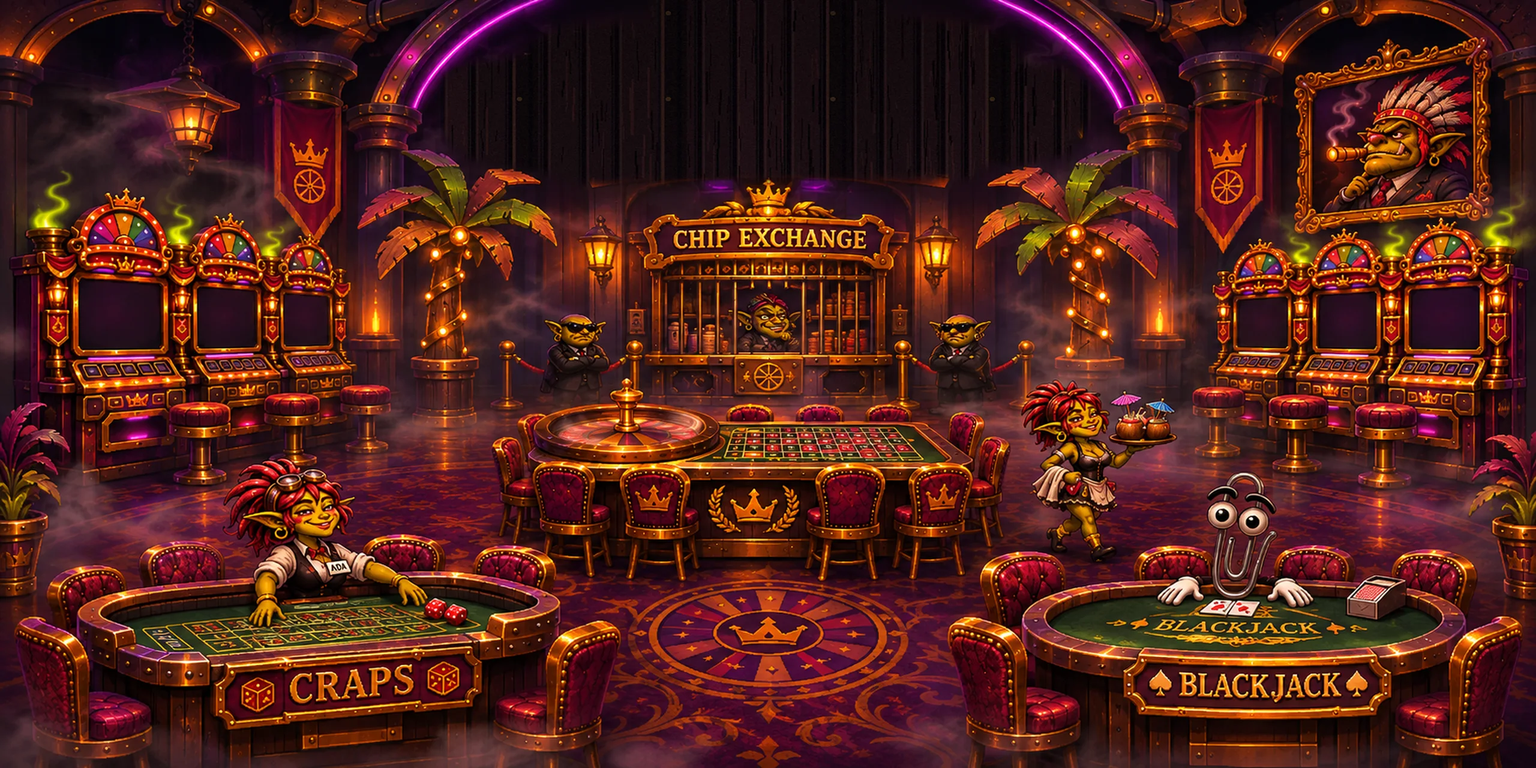
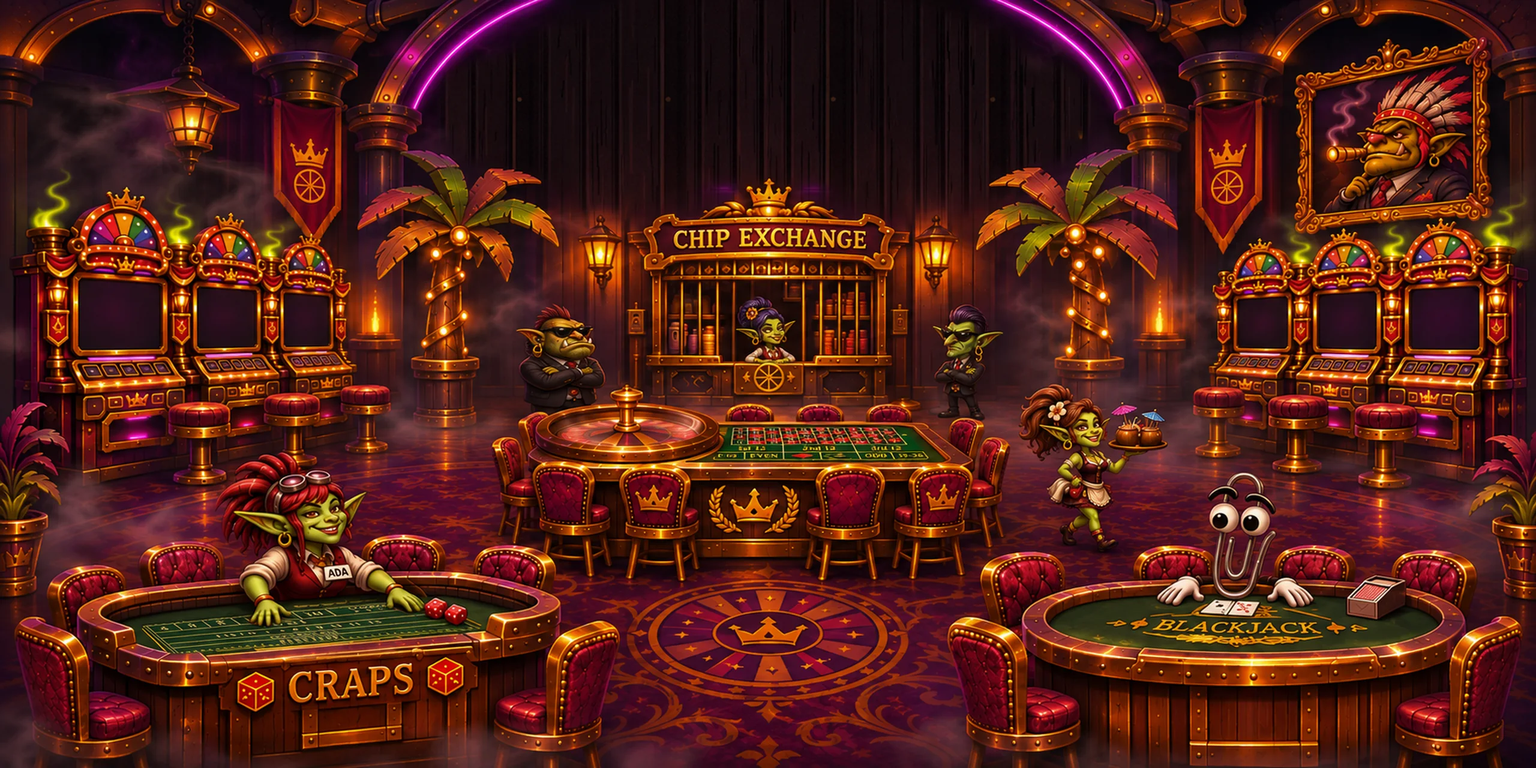
Casino: Ada's final room, slot highlights hug the screens, bouncer spots moved
Claude-Session: https://claude.ai/code/session_01JjVzf52scR2Hecsso6dYfx

diff --git a/casino.html b/casino.html
@@ -94,12 +94,12 @@
   <div class="fx" id="smoke"></div>
 
   <!-- everything you can click (percent of the 2:1 room) -->
-  <button class="hs" data-go="slot" data-m="1" aria-label="Slot machine" style="left:1%;top:25%;width:8.25%;height:36%"></button>
-  <button class="hs" data-go="slot" data-m="2" aria-label="Slot machine" style="left:9.25%;top:25%;width:7.25%;height:36%"></button>
-  <button class="hs" data-go="slot" data-m="3" aria-label="Slot machine" style="left:16.75%;top:25%;width:6.25%;height:36%"></button>
-  <button class="hs" data-go="slot" data-m="4" aria-label="Slot machine" style="left:79%;top:27%;width:6%;height:34%"></button>
-  <button class="hs" data-go="broken" aria-label="The out of order slot machine" style="left:85%;top:27%;width:6.5%;height:34%"></button>
-  <button class="hs" data-go="slot" data-m="6" aria-label="Slot machine" style="left:91.5%;top:27%;width:8%;height:34%"></button>
+  <button class="hs" data-go="slot" data-m="1" aria-label="Slot machine" style="left:4.69%;top:35.62%;width:6.17%;height:10.78%"></button>
+  <button class="hs" data-go="slot" data-m="2" aria-label="Slot machine" style="left:12.46%;top:36.80%;width:4.73%;height:9.53%"></button>
+  <button class="hs" data-go="slot" data-m="3" aria-label="Slot machine" style="left:18.09%;top:37.19%;width:3.87%;height:8.91%"></button>
+  <button class="hs" data-go="slot" data-m="4" aria-label="Slot machine" style="left:80.08%;top:37.66%;width:4.18%;height:8.59%"></button>
+  <button class="hs" data-go="broken" aria-label="The out of order slot machine" style="left:85.39%;top:37.03%;width:4.65%;height:9.30%"></button>
+  <button class="hs" data-go="slot" data-m="6" aria-label="Slot machine" style="left:91.33%;top:36.25%;width:5.47%;height:10.08%"></button>
   <button class="hs" data-go="cage" aria-label="The chip exchange" style="left:41.75%;top:27%;width:16.5%;height:23%"></button>
   <button class="hs" data-go="roulette" aria-label="The roulette table" style="left:34.5%;top:54%;width:29%;height:18%"></button>
   <button class="hs" data-go="craps" aria-label="The craps table" style="left:5%;top:74%;width:31.5%;height:22%"></button>
@@ -112,8 +112,8 @@
   <button class="hs" data-go="palm" aria-label="A fake palm tree" style="left:64.5%;top:20%;width:11.5%;height:27%"></button>
   <button class="hs" data-go="marquee" aria-label="The casino sign" style="left:37.5%;top:1%;width:25%;height:21%"></button>
   <button class="hs" data-go="carpet" aria-label="The carpet" style="left:41.5%;top:76%;width:10%;height:15%"></button>
-  <button class="hs person" data-go="bouncer" aria-label="A bouncer" style="left:35.25%;top:40.5%;width:4.25%;height:12.5%"></button>
-  <button class="hs person" data-go="bouncer" aria-label="A bouncer" style="left:60.5%;top:40.5%;width:4.25%;height:12.5%"></button>
+  <button class="hs person" data-go="bouncer" aria-label="A bouncer" style="left:33.4%;top:39.5%;width:6.4%;height:14%"></button>
+  <button class="hs person" data-go="bouncer" aria-label="A bouncer" style="left:60.4%;top:39.5%;width:5%;height:14%"></button>
   <button class="hs person" data-go="cage" aria-label="The cashier" style="left:47.5%;top:36.5%;width:4.5%;height:10%"></button>
   <button class="hs person" data-go="ada" aria-label="Ada, dealing craps" style="left:14.25%;top:61.5%;width:13.75%;height:18.5%"></button>
   <button class="hs person" data-go="clippy" aria-label="Clippy, dealing blackjack" style="left:75%;top:61%;width:9.5%;height:18%"></button>

diff --git a/wheel.html b/wheel.html
@@ -958,7 +958,7 @@
                 <div class="text-xs font-bold uppercase tracking-wider text-slate-400 mb-2">📰 Patch notes</div>
                 <button id="updateReopen" class="px-3 py-1.5 rounded bg-amber-700 hover:bg-amber-600 text-white text-xs font-bold cursor-pointer">See what's new</button>
                 <a href="./" class="ml-2 text-xs text-amber-300 underline" title="It's all connected"><img src="media/board_icon.png" alt="" style="display:inline-block;height:1.15em;width:auto;vertical-align:-.25em;margin-right:.25em;border-radius:2px">The Board</a>
-                <span id="buildStamp" class="ml-2 text-xs text-slate-500" title="If this is old, press Ctrl+F5">Version: Nov 18, 1:21 PM CT</span>
+                <span id="buildStamp" class="ml-2 text-xs text-slate-500" title="If this is old, press Ctrl+F5">Version: Nov 18, 1:27 PM CT</span>
             </div>
             <div class="mt-5 pt-4 border-t border-slate-800 text-xs font-bold uppercase tracking-wider text-slate-400 mb-2">🔤 Font</div>
             <div id="fontPicks" class="grid grid-cols-2 sm:grid-cols-3 gap-2"><button type="button" class="font-pick" data-font="pixel"><b class="fp-name">Pixel Goblin</b><span class="fp-sample">KEVIN · Spin Again</span><span class="fp-sub">Pixelify Sans + Atkinson Hyperlegible</span></button><button type="button" class="font-pick" data-font="silk"><b class="fp-name">Arcade Caps</b><span class="fp-sample">KEVIN · Spin Again</span><span class="fp-sub">Silkscreen + Nunito Sans</span></button><button type="button" class="font-pick" data-font="pirata"><b class="fp-name">Pirate Gothic</b><span class="fp-sample">KEVIN · Spin Again</span><span class="fp-sub">Pirata One + Barlow</span></button><button type="button" class="font-pick" data-font="germania"><b class="fp-name">Iron Fraktur</b><span class="fp-sample">KEVIN · Spin Again</span><span class="fp-sub">Germania One + Barlow</span></button><button type="button" class="font-pick" data-font="tiny"><b class="fp-name">Tiny Pixel</b><span class="fp-sample">KEVIN · Spin Again</span><span class="fp-sub">Tiny5 + Atkinson Hyperlegible</span></button><button type="button" class="font-pick" data-font="jersey"><b class="fp-name">Arcade Cabinet</b><span class="fp-sample">KEVIN · Spin Again</span><span class="fp-sub">Jersey 15 + Atkinson Hyperlegible</span></button></div>
